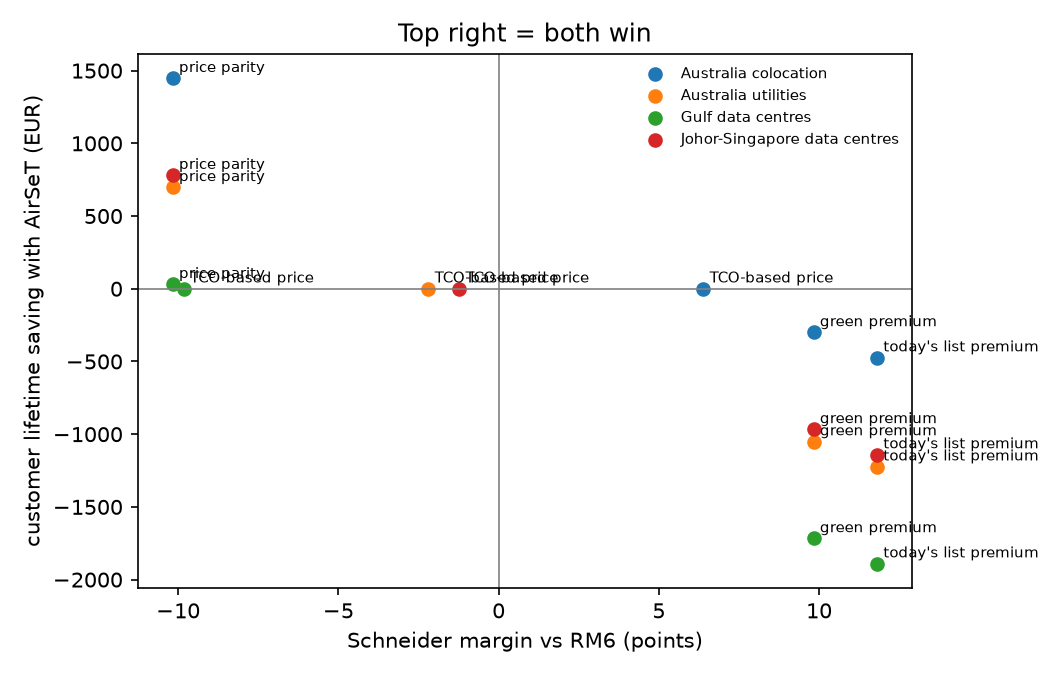
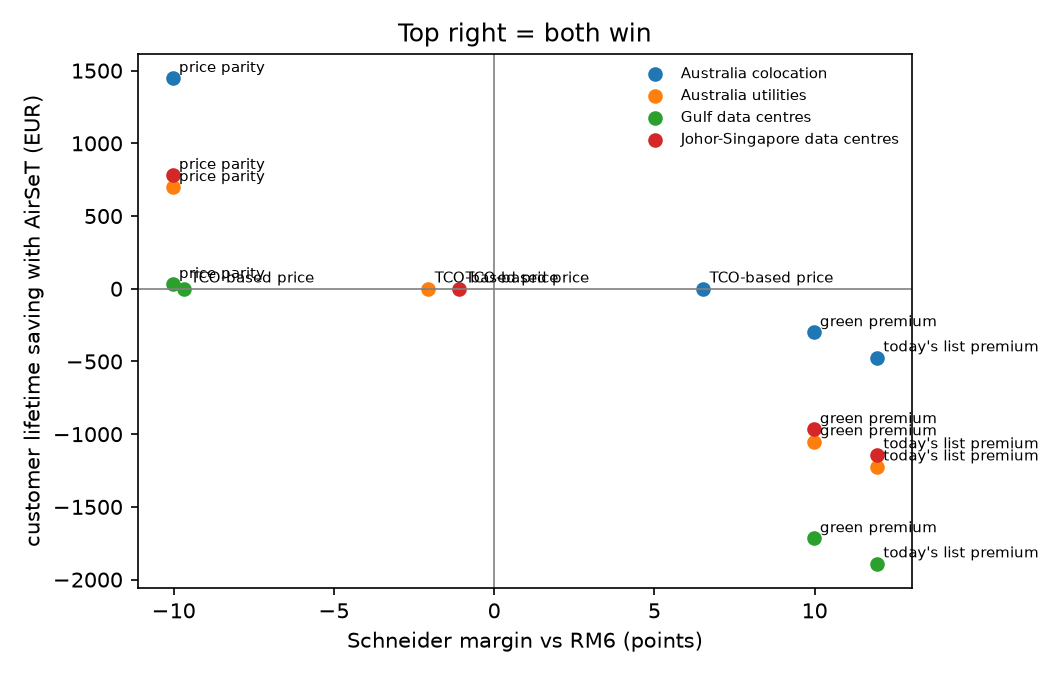
Index copper in AirSeT's clause; regenerate Step 8–9 charts
With BOM v1, copper is 38 % of AirSeT's raw-material cost, so its indexation
clause now follows copper as well as steel and stainless. On past 9-month
quotes (PPI steel) the clause's worst loss falls from 1.22 to 0.58 margin
points. Regenerated Step 9 tables, Step 8–9 charts and the Problem 2 price
window that reads the quote rule.

diff --git a/src/pricing.py b/src/pricing.py
@@ -42,11 +42,12 @@ MAIN_TRIGGER = 0.05
 SHORT_VALIDITY = 3   # "shorter validity" strategy: re-quote every 3 months
 BUFFER_GRID = np.round(np.arange(0, 3.01, 0.1), 2)
 STEELS = ["PPI", "market"]  # steel moves like the PPI (main) or like MEPS market prices
-# Materials an indexation clause follows: copper for RM6; steel + stainless for AirSeT
-# (Schneider already buys steel on MEPS / CRU indices).
+# Materials an indexation clause follows: copper for RM6; copper + steel + stainless for
+# AirSeT (BOM v1: copper is 38 % of AirSeT's raw-material cost; Schneider already buys
+# steel on MEPS / CRU indices).
 INDEXED = {
     "RM6": ["Copper"],
-    "AirSeT": ["Carbon steel DE", "Stainless steel", "Stainless base", "Stainless alloy surcharge"],
+    "AirSeT": ["Copper", "Carbon steel DE", "Stainless steel", "Stainless base", "Stainless alloy surcharge"],
 }
 MAIN_CASES = ["RM6", "AirSeT, nickel check"]  # BOM v1; stainless priced through nickel
 SCENARIOS = {"downside": 0.10, "baseline": 0.50, "upside": 0.90}
